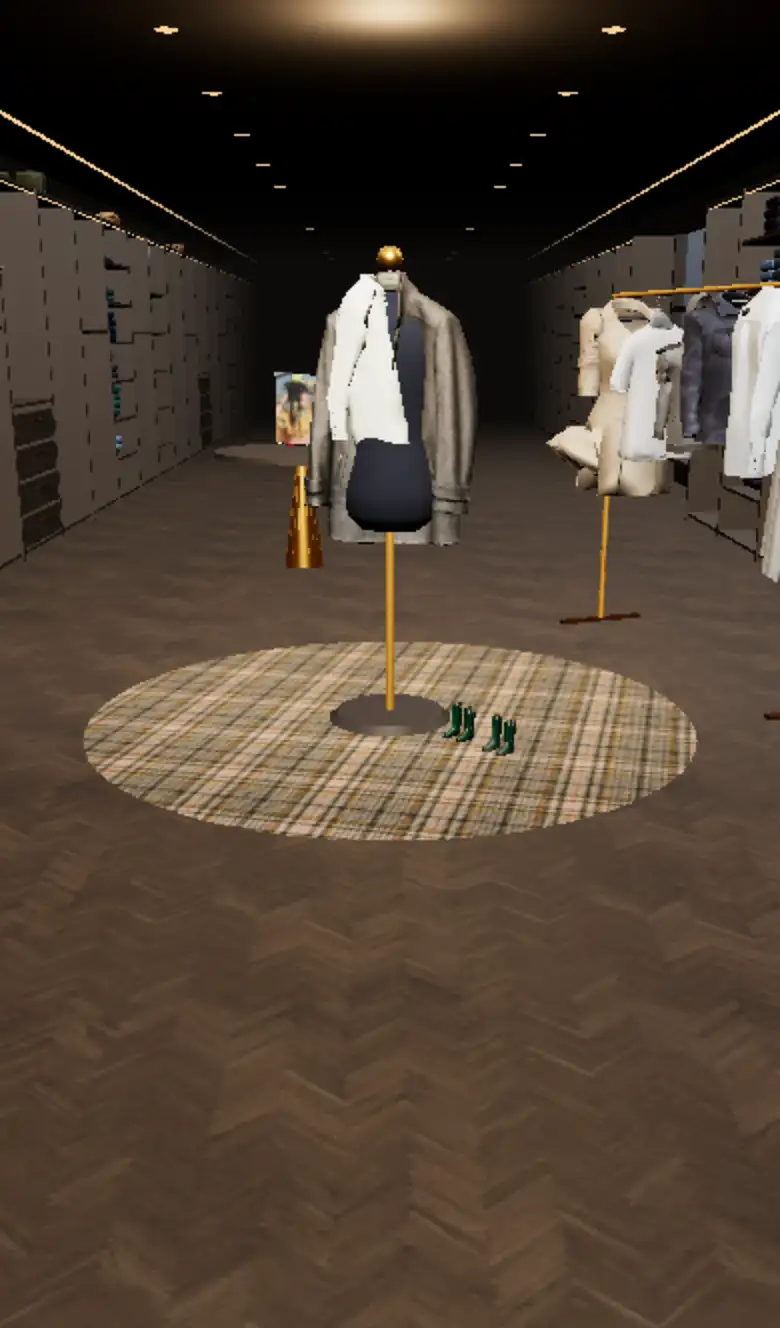
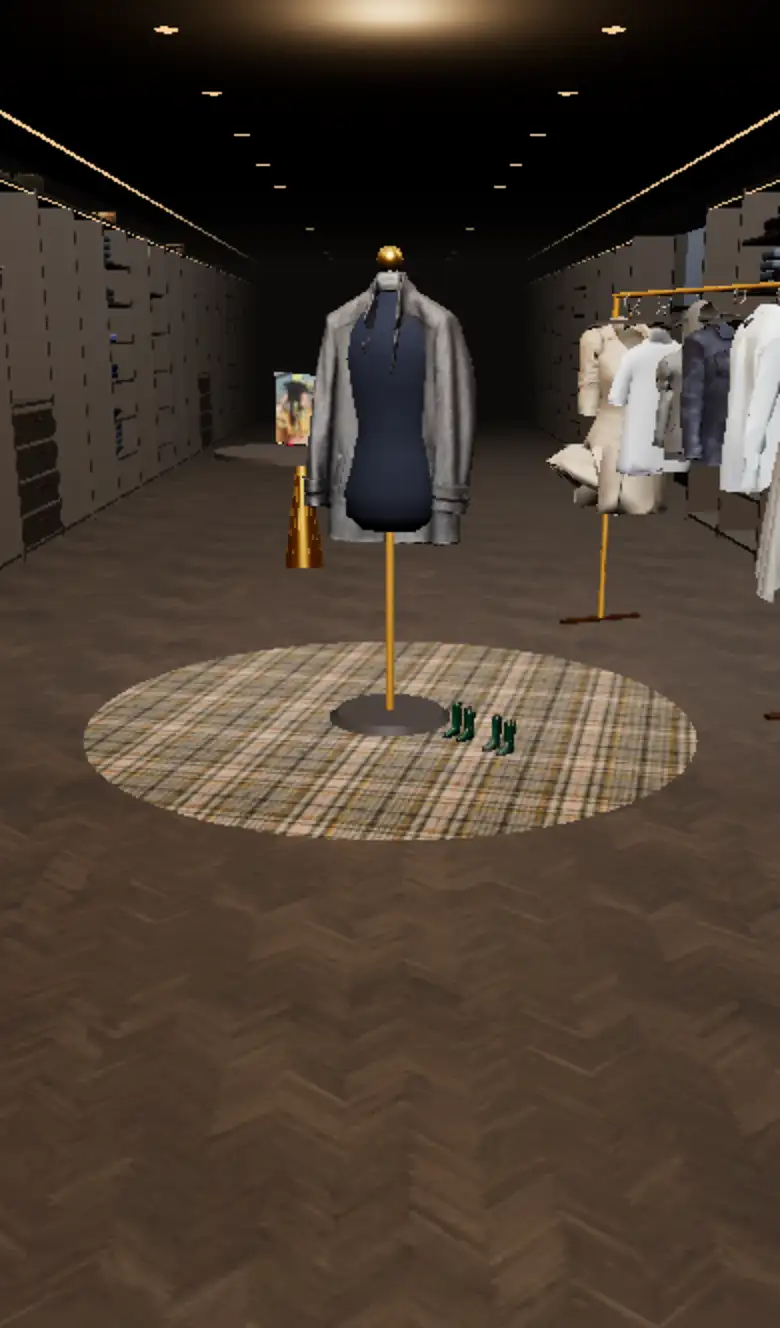
Hero inner layer via form colour, shirt faces forward, full-thickness rack packing, hangers on every garment with hook-on-rail check, stills

diff --git a/world3d.js b/world3d.js
@@ -61,7 +61,7 @@ const brass=new THREE.MeshStandardMaterial({color:0xd9a441,metalness:1,roughness
 const chrome=new THREE.MeshStandardMaterial({color:0xcfc8bc,metalness:1,roughness:.18});
 const led=new THREE.MeshBasicMaterial({color:0xffd29a,toneMapped:false});
 const SF={coat:'wool_coat',trench:'tan_womans_coat',jacket:'modern_denim_jacket',denim:'denim_jacket',tee:'t-shirt_on_hanger',pants:'hangers_and_pants',hoodie:'hoodie',shirt:'free_shirt',dress:'woman_dress',party:'party_dress',slip:'long_evening_dress'};
-const OWNH={tee:1};const HY={coat:-.05,trench:-.07,jacket:-.05,denim:-.05,hoodie:-.2,shirt:-.04,dress:-.02,party:-.03,slip:-.02,tee:0,pants:-.01};
+const OWNH={};const GY={coat:-.095,trench:-.095,jacket:-.095,denim:-.095,hoodie:-.035,shirt:-.065,dress:-.085,party:-.085,slip:-.09,tee:-.07,pants:-.15};const HOOKY=-.088;const _hk={};function hk(t){if(_hk[t])return _hk[t];const b=new THREE.Box3();PARTS[t].forEach(q=>{q.geo.computeBoundingBox();b.union(q.geo.boundingBox)});const k=Math.min(1.25,Math.max(.6,(b.max.x-b.min.x)*.74/.43));return _hk[t]=new THREE.Matrix4().makeTranslation(0,HOOKY,0).multiply(new THREE.Matrix4().makeScale(k,1,1))}const HY={coat:-.05,trench:-.07,jacket:-.05,denim:-.05,hoodie:-.2,shirt:-.04,dress:-.02,party:-.03,slip:-.02,tee:0,pants:-.01};
 const PAL={coat:[0xffffff,0xd8d4cc,0xb8b4ac],trench:[0xffffff,0xe6ded2,0xcfc8bc],jacket:[0xffffff,0xd4dae2],denim:[0xffffff,0xc8ccd4],tee:[0xeee6d4,0x2f3a55,0x5d6345,0xb08a5e,0x3a3a3a,0x9aa3ad,0xffffff],pants:[0xffffff,0xd8d0c0,0x9a9a9a],hoodie:[0xffffff,0x5d6345,0x3a4766,0xb08a5e],shirt:[0xffffff,0x3a4766,0x7a7f5a,0xc9a57a,0xeee6d4,0xb8c4d6],dress:[0xffffff,0xe0e0e0],party:[0xffffff,0x9a9a9a],slip:[0xffffff,0xc8c0b0,0xa8ae9c,0x6a6660]};
 
 // ---------- room shell ----------
@@ -131,7 +131,7 @@ flushParts();
 
 // garments: per chunk InstancedMeshes with hi/lo geometry
 const TYPES=Object.keys(SF);
-const hangerGLB=await loadGLB('models/props/hanger.glb');const hangerGeo=[];hangerGLB.traverse(m=>m.isMesh&&hangerGeo.push(m.geometry));
+const hangerGLB=await loadGLB('models/props/hanger.glb');const hangerGeo=[];hangerGLB.updateMatrixWorld(true);hangerGLB.traverse(m=>m.isMesh&&hangerGeo.push(m.geometry.clone().applyMatrix4(m.matrixWorld)));hangerGeo.sort((a,b)=>{a.computeBoundingBox();b.computeBoundingBox();return (b.boundingBox.max.x-b.boundingBox.min.x)-(a.boundingBox.max.x-a.boundingBox.min.x)});
 const hangerWood=walnutDark;
 function bake(o,swayAmp){o.updateMatrixWorld(true);const parts=[];o.traverse(m=>{if(!m.isMesh)return;const g=m.geometry.clone();g.applyMatrix4(m.matrixWorld);
   const mt=m.material.clone();mt.side=THREE.DoubleSide;mt.envMapIntensity=.8;if(mt.map)mt.map.anisotropy=4;sway(mt,swayAmp);parts.push({geo:g,mat:mt})});return parts}
@@ -141,16 +141,16 @@ await Promise.all(TYPES.map(async t=>{PARTS[t]=bake(await loadGLB(`models/sf/${S
 const THK={},WID={};TYPES.forEach(t=>{const b=new THREE.Box3();PARTS[t].forEach(q=>{q.geo.computeBoundingBox();b.union(q.geo.boundingBox)});THK[t]=b.max.z-b.min.z;WID[t]=b.max.x-b.min.x});
 {const rails={};garmentSlots.forEach(g=>(rails[g.rail]=rails[g.rail]||[]).push(g));const keep=[];let dropped=0,overl=0;
  for(const k in rails){const L=rails[k];const zc=+k.split('|')[2];let z=zc+UW/2-.035;const zEnd=zc-UW/2+.035;
-  for(const g of L){const th=Math.max(.035,THK[g.type]*.85)+.012;if(z-th<zEnd){dropped++;continue}
+  for(const g of L){const th=Math.max(.035,THK[g.type])+.015;if(z-th<zEnd){dropped++;continue}
    const zz=z-th/2;z-=th;const sc=Math.min(1,(DEPTH-.04)/Math.max(.01,WID[g.type]));
    QQ.setFromEuler(new THREE.Euler(0,g.facing+(Math.random()-.5)*.06,0));g.m=new THREE.Matrix4().compose(VV.set(g.x,g.y,zz),QQ,new THREE.Vector3(sc,1,1));g.z=zz;g.th=th;keep.push(g)}}
  for(const k in rails){const L=keep.filter(g=>g.rail===k);for(let i=1;i<L.length;i++){if(L[i-1].z-L[i-1].th/2<L[i].z+L[i].th/2-1e-4)overl++}}
  garmentSlots.length=0;keep.forEach(g=>garmentSlots.push(g));window.__rackCheck={rails:Object.keys(rails).length,items:keep.length,dropped,overlaps:overl};console.log('rack pack',JSON.stringify(window.__rackCheck))}
 function loadHi(t){if(!HI[t])HI[t]=loadGLB(`models/sf/${SF[t]}.glb`).then(o=>bake(o,t==='coat'||t==='trench'?.5:1));return HI[t]}
 const showcase=[];
-function addHanger(g,t){if(OWNH[t])return;hangerGeo.forEach((hg,hi)=>{const h=new THREE.Mesh(hg,hi?chrome:hangerWood);g.add(h)})}
+function addHanger(g,t){if(OWNH[t])return;hangerGeo.forEach((hg,hi)=>{const h=new THREE.Mesh(hg,hi?chrome:hangerWood);h.applyMatrix4(hk(t));h.userData.hanger=hi===0?'wood':'hook';g.add(h)})}
 function fillG(g,parts,col){g.children.filter(c=>c.userData.garm).forEach(c=>{g.remove(c);c.material.dispose()});
-  const off=g.userData.hanger&&!OWNH[g.userData.t]?-HY[g.userData.t]:0;parts.forEach(p=>{const m=new THREE.Mesh(p.geo,p.mat.clone());m.position.y=off;m.material.onBeforeCompile=p.mat.onBeforeCompile;m.material.customProgramCacheKey=p.mat.customProgramCacheKey;m.material.color.multiply(new THREE.Color(col));m.userData.garm=1;m.castShadow=!mobile;m.receiveShadow=true;g.add(m)})}
+  const off=g.userData.hanger&&!OWNH[g.userData.t]?GY[g.userData.t]:0;parts.forEach(p=>{const m=new THREE.Mesh(p.geo,p.mat.clone());m.position.y=off;m.material.onBeforeCompile=p.mat.onBeforeCompile;m.material.customProgramCacheKey=p.mat.customProgramCacheKey;m.material.color.multiply(new THREE.Color(col));m.userData.garm=1;m.castShadow=!mobile;m.receiveShadow=true;g.add(m)})}
 function makeG(t,col=0xffffff,stop=-1,hanger=true){const g=new THREE.Group();g.userData={t,col,stop,hi:false,hanger};fillG(g,PARTS[t],col);if(hanger)addHanger(g,t);if(stop>=0)showcase.push(g);return g}
 function upgradeNear(){if(mobile)return;showcase.forEach(g=>{const u=g.userData;if(u.hi||u.loading||Math.abs(MC.t-u.stop)>1.6)return;u.loading=true;loadHi(u.t).then(p=>{fillG(g,p,u.col);u.hi=true})})}
 const chunks=[];
@@ -158,9 +158,9 @@ for(let c=0;c<9;c++){const g=new THREE.Group();scene.add(g);const ch={g,meshes:[
   const slots=garmentSlots.filter(s=>s.chunk===c);if(!slots.length)continue;
   let zs=0;slots.forEach(s=>zs+=s.m.elements[14]);ch.center.set(0,1.5,zs/slots.length);
   TYPES.forEach(t=>{const L=slots.filter(s=>s.type===t);if(!L.length)return;PARTS[t].forEach(p=>{const im=new THREE.InstancedMesh(p.geo,p.mat,L.length);
-    L.forEach((s,i)=>{const mm=s.m.clone().multiply(new THREE.Matrix4().makeTranslation(0,OWNH[t]?0:-HY[t],0));im.setMatrixAt(i,mm);im.setColorAt(i,new THREE.Color(s.col))});im.receiveShadow=true;g.add(im)})});
+    L.forEach((s,i)=>{const mm=s.m.clone().multiply(new THREE.Matrix4().makeTranslation(0,OWNH[t]?0:GY[t],0));im.setMatrixAt(i,mm);im.setColorAt(i,new THREE.Color(s.col))});im.receiveShadow=true;g.add(im)})});
   const HS=slots.filter(s=>!OWNH[s.type]);
-  hangerGeo.forEach((hg,hi)=>{const im=new THREE.InstancedMesh(hg,hi===0?hangerWood:chrome,HS.length);HS.forEach((s,i)=>{im.setMatrixAt(i,s.m)});g.add(im)})}
+  hangerGeo.forEach((hg,hi)=>{const im=new THREE.InstancedMesh(hg,hi===0?hangerWood:chrome,HS.length);HS.forEach((s,i)=>{im.setMatrixAt(i,s.m.clone().multiply(hk(s.type)))});im.userData.hangerOf=HS;g.add(im)})}
 // shoes on D shelves
 loadGLB('models/props/rubber_boots.glb').then(o=>{const L=units.filter(u=>u.shoe);const subs=[];o.updateMatrixWorld(true);o.traverse(m=>m.isMesh&&subs.push(m));
   const b=new THREE.Box3().setFromObject(o),sz=new THREE.Vector3();b.getSize(sz);const k=.3/Math.max(sz.x,sz.z);
@@ -205,9 +205,9 @@ const form=new THREE.Mesh(formGeo,formM);form.castShadow=true;man.add(form);
  const rug=new THREE.Mesh(new THREE.CircleGeometry(1.25,64),pbr('wool_boucle',3,0xd9cbb6,{roughness:1}));rug.rotation.x=-Math.PI/2;rug.position.y=.004;rug.receiveShadow=true;man.add(rug)}
 const formBox=new THREE.Box3().setFromBufferAttribute(formGeo.attributes.position);const formSh=formBox.max.y-.12;
 const LOOKT=['coat','shirt','hoodie','party'];
-const lookInner=[];
-const looks=LOOKT.map((t,i)=>{const o=new THREE.Group();o.userData.swap=1;if(t==='coat'){const sh=makeG('shirt',0xeee6d4,-1,false);sh.position.y=formBox.max.y-.03;sh.scale.set(.8,.82,.85);o.add(sh);lookInner.push([i,sh,'shirt',0xeee6d4])}const inner=makeG(t,0xffffff,-1,false);const gb=new THREE.Box3();PARTS[t].forEach(q=>{q.geo.computeBoundingBox();gb.union(q.geo.boundingBox)});const gs=new THREE.Vector3();gb.getSize(gs);const fs=new THREE.Vector3();formBox.getSize(fs);
-  const kx=Math.max(1,fs.x*1.12/gs.x),kz=Math.max(1,fs.z*1.22/gs.z);inner.scale.set(kx,Math.max(1,kx*.92),kz);inner.position.y=formBox.max.y-.02+(t==='hoodie'?.14:0);o.add(inner);man.add(o);lookInner.push([i,inner,t,0xffffff]);return{g:o,o}});
+const lookInner=[];const FCHAR=new THREE.Color(0x3a3836),FCREAM=new THREE.Color(0xd8cfbe);
+const looks=LOOKT.map((t,i)=>{const o=new THREE.Group();o.userData.swap=1;const inner=makeG(t,0xffffff,-1,false);const gb=new THREE.Box3();PARTS[t].forEach(q=>{q.geo.computeBoundingBox();gb.union(q.geo.boundingBox)});const gs=new THREE.Vector3();gb.getSize(gs);const fs=new THREE.Vector3();formBox.getSize(fs);
+  const yw=t==='shirt'?-Math.PI/2:0,sw=yw?gs.z:gs.x,sd=yw?gs.x:gs.z;const kw=Math.max(1,fs.x*1.12/sw),kd=Math.max(1,fs.z*1.22/sd);const sx=yw?kd:kw,sz=yw?kw:kd;inner.scale.set(sx,Math.max(1,kw*.92),sz);inner.rotation.y=yw;const gc=new THREE.Vector3();gb.getCenter(gc);const off=new THREE.Vector3(gc.x*sx,0,gc.z*sz).applyAxisAngle(new THREE.Vector3(0,1,0),yw);inner.position.set(-off.x,formBox.max.y-.02+(t==='hoodie'?.14:0),-off.z);o.add(inner);man.add(o);lookInner.push([i,inner,t,0xffffff]);return{g:o,o}});
 const lookSw=makeSwapper(looks,{lift:.3,drop:.4,dur:.9,spin:.3});
 await loadHi('coat');lookInner.forEach(([i,g,t,c])=>safeUpgrade(lookSw,i,g,t,c));
 // boots for rain look
@@ -218,7 +218,7 @@ addEventListener('mc-look',e=>setLook(e.detail));setLook(MC.look||0);
 const GRADE=[{c:0xd6e2ff,i:12,e:.93,h:0xcad6ec},{c:0xffe0b4,i:16,e:1.08,h:0xfff0d8},{c:0xe6eeff,i:13,e:.98,h:0xdfe8f4},{c:0xffc48a,i:10,e:.84,h:0xd8b490}];
 const gk=new THREE.Color(0xfff0dc),gh=new THREE.Color(0xfff1e0),tc=new THREE.Color();let gE=1,gI=14;
 function updateMannequin(dt){lookSw.update(dt,clock.elapsedTime);if(rainBoots){rainBoots.visible=curLook===0||looks[0].w>.02;if(rainBoots.visible){prepFade(rainBoots);setOpacity(rainBoots,looks[0].w)}}
-  const on=Math.max(...looks.map(l=>l.w));form.scale.set(1-.2*on,1-.03*on,1-.32*on);
+  const on=Math.max(...looks.map(l=>l.w));{const ic=curLook===1?FCREAM:FCHAR;formM.color.lerp(ic,Math.min(1,dt*4))}form.scale.set(1-.2*on,1-.03*on,1-.32*on);
   const hw=THREE.MathUtils.clamp(1.2-MC.t,0,1),G=GRADE[curLook]||GRADE[0],k=Math.min(1,dt*2.2);
   tc.set(G.c).lerp(new THREE.Color(0xfff0dc),1-hw);gk.lerp(tc,k);key.color.copy(gk);tc.set(G.h).lerp(new THREE.Color(0xfff1e0),1-hw);gh.lerp(tc,k);hemi.color.copy(gh);
   gE+=((1+(G.e-1)*hw)-gE)*k;gI+=((14+(G.i-14)*hw)-gI)*k;r.toneMappingExposure=gE;key.intensity=gI}
@@ -348,7 +348,7 @@ const shopTex=screenTex((x,k)=>{x.fillStyle='#232323';x.fillRect(0,0,256,520);x.
  const bar=new THREE.Mesh(new THREE.CylinderGeometry(.014,.014,1.94,10),brass);bar.rotation.z=Math.PI/2;bar.position.y=1.9;base.add(bar);
  const sign=new THREE.Mesh(new THREE.PlaneGeometry(.7,.35),new THREE.MeshBasicMaterial({map:signTex([['ModaShop','900 84px Montserrat, sans-serif',120],['COMING SOON','800 44px Montserrat, sans-serif',200]]),toneMapped:false}));sign.position.set(0,2.25,0);base.add(sign);
  const rail=[['jacket',0xffffff],['tee',0xd8c7a3],['coat',0xffffff],['slip',0xa8ae9c],['hoodie',0xb8bcc0],['dress',0xffffff]];
- rail.forEach(([t,c],i)=>{const m=makeG(t,c,5);m.position.set(-.8+i*.32,1.89,0);m.rotation.y=Math.PI/2+(Math.random()-.5)*.2;base.add(m);
+ rail.forEach(([t,c],i)=>{const m=makeG(t,c,5);m.position.set(-.8+i*.32,1.9,0);m.rotation.y=Math.PI/2+(Math.random()-.5)*.2;base.add(m);
   if(i===2){listedTag=new THREE.Group();const tag=new THREE.Mesh(new THREE.PlaneGeometry(.12,.055),new THREE.MeshBasicMaterial({map:signTex([['Listed','900 120px Montserrat, sans-serif',170]],512,240),toneMapped:false,side:THREE.DoubleSide}));tag.position.y=-.05;listedTag.add(tag);
    listedTag.position.set(m.position.x,1.82,.2);base.add(listedTag)}});
  const sp=phone(shopTex);sp.position.set(1.25,1.25,.15);sp.rotation.y=-.3;sp.scale.setScalar(2.4);base.add(sp);
@@ -456,5 +456,6 @@ function frame(){const dt=Math.min(clock.getDelta(),.05),t=clock.elapsedTime;U.u
     else if(ms<14&&dpr<maxDpr){slow=0;dpr=Math.min(maxDpr,dpr+.25);r.setPixelRatio(dpr);size()}acc=0;fc=0}
 }
 r.setAnimationLoop(()=>{if(!lost&&!document.hidden)frame()});
-window.__mc={r,scene,cam,S,camC,top3d:()=>topCard().userData.li,info:()=>({tris:r.info.render.triangles,calls:r.info.render.calls,geos:r.info.memory.geometries,tex:r.info.memory.textures})};
+window.__hangCheck=()=>{const hookBox=new THREE.Box3();hangerGeo.forEach(g=>{g.computeBoundingBox()});let hb=null;hangerGeo.forEach(g=>{if(g.boundingBox.max.y>(hb?hb.max.y:-9))hb=g.boundingBox});const top=hb.max.y+HOOKY;const bad=[];let n=0;scene.traverse(o=>{if(o.isGroup&&o.userData&&o.userData.hanger&&o.userData.t&&!o.userData.swap){n++;const hs=o.children.filter(c=>c.userData.hanger);if(hs.length<2)bad.push(['missing',o.userData.t]);else{const bx=new THREE.Box3().setFromObject(hs.find(c=>c.userData.hanger==='hook')||hs[0]);o.updateWorldMatrix(true,false);const oy=new THREE.Vector3().setFromMatrixPosition(o.matrixWorld).y;if(Math.abs(bx.max.y-oy-top)>.01)bad.push(['hook',o.userData.t,+(bx.max.y-oy).toFixed(3)])}}});let inst=0;scene.traverse(o=>{if(o.isInstancedMesh&&o.userData.hangerOf&&o.geometry.boundingBox===hb){inst+=o.count}});const slotsN=new Set();scene.traverse(o=>{if(o.isInstancedMesh&&o.userData.hangerOf)o.userData.hangerOf.forEach(s=>slotsN.add(s))});return{groups:n,instancedHangers:inst,slots:slotsN.size,hookTopAboveRail:+top.toFixed(3),bad}};
+window.__mc={looks,man,MAN,r,scene,cam,S,camC,top3d:()=>topCard().userData.li,info:()=>({tris:r.info.render.triangles,calls:r.info.render.calls,geos:r.info.memory.geometries,tex:r.info.memory.textures})};
 }
